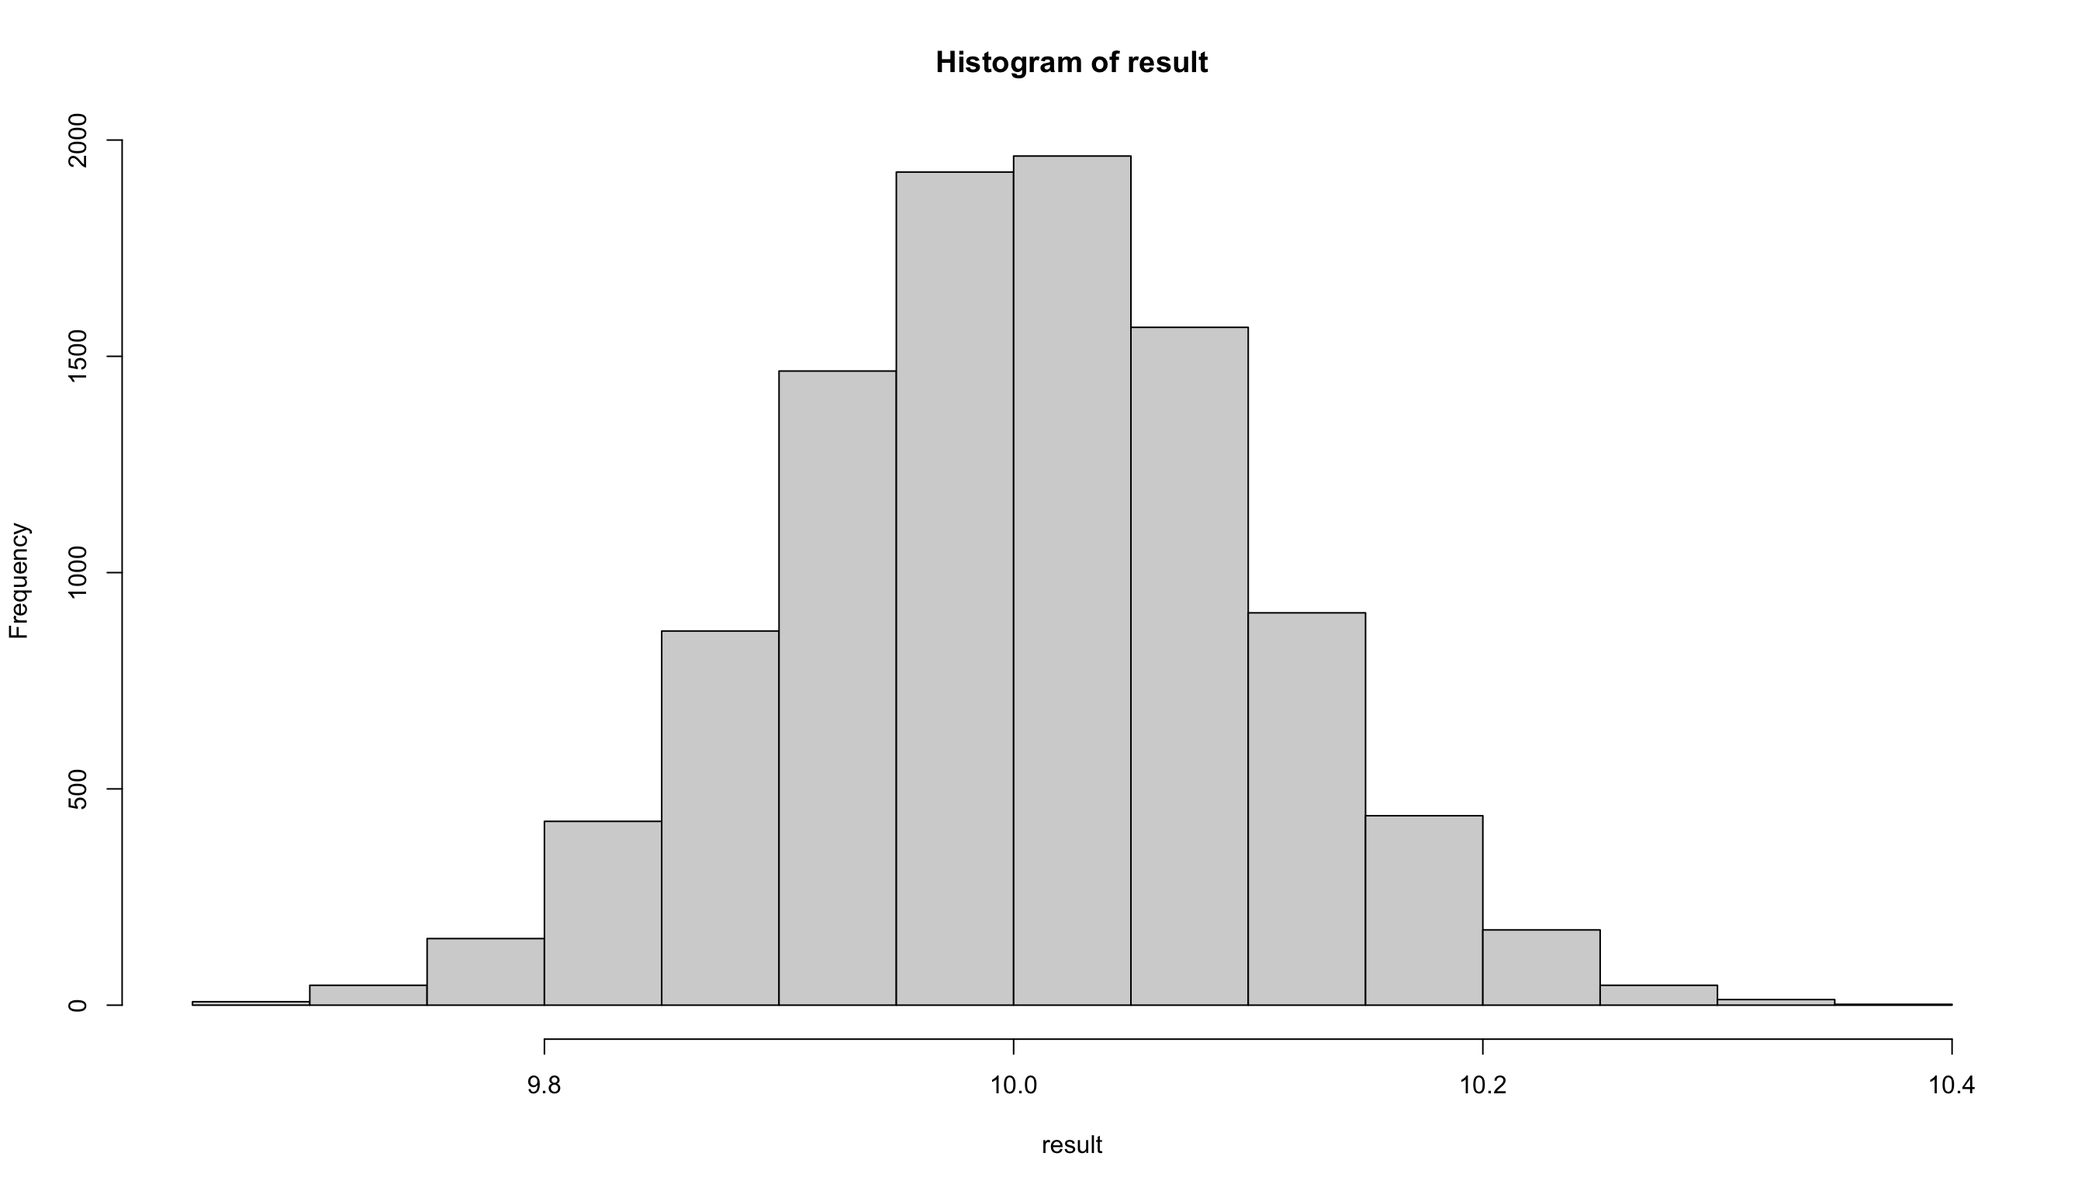
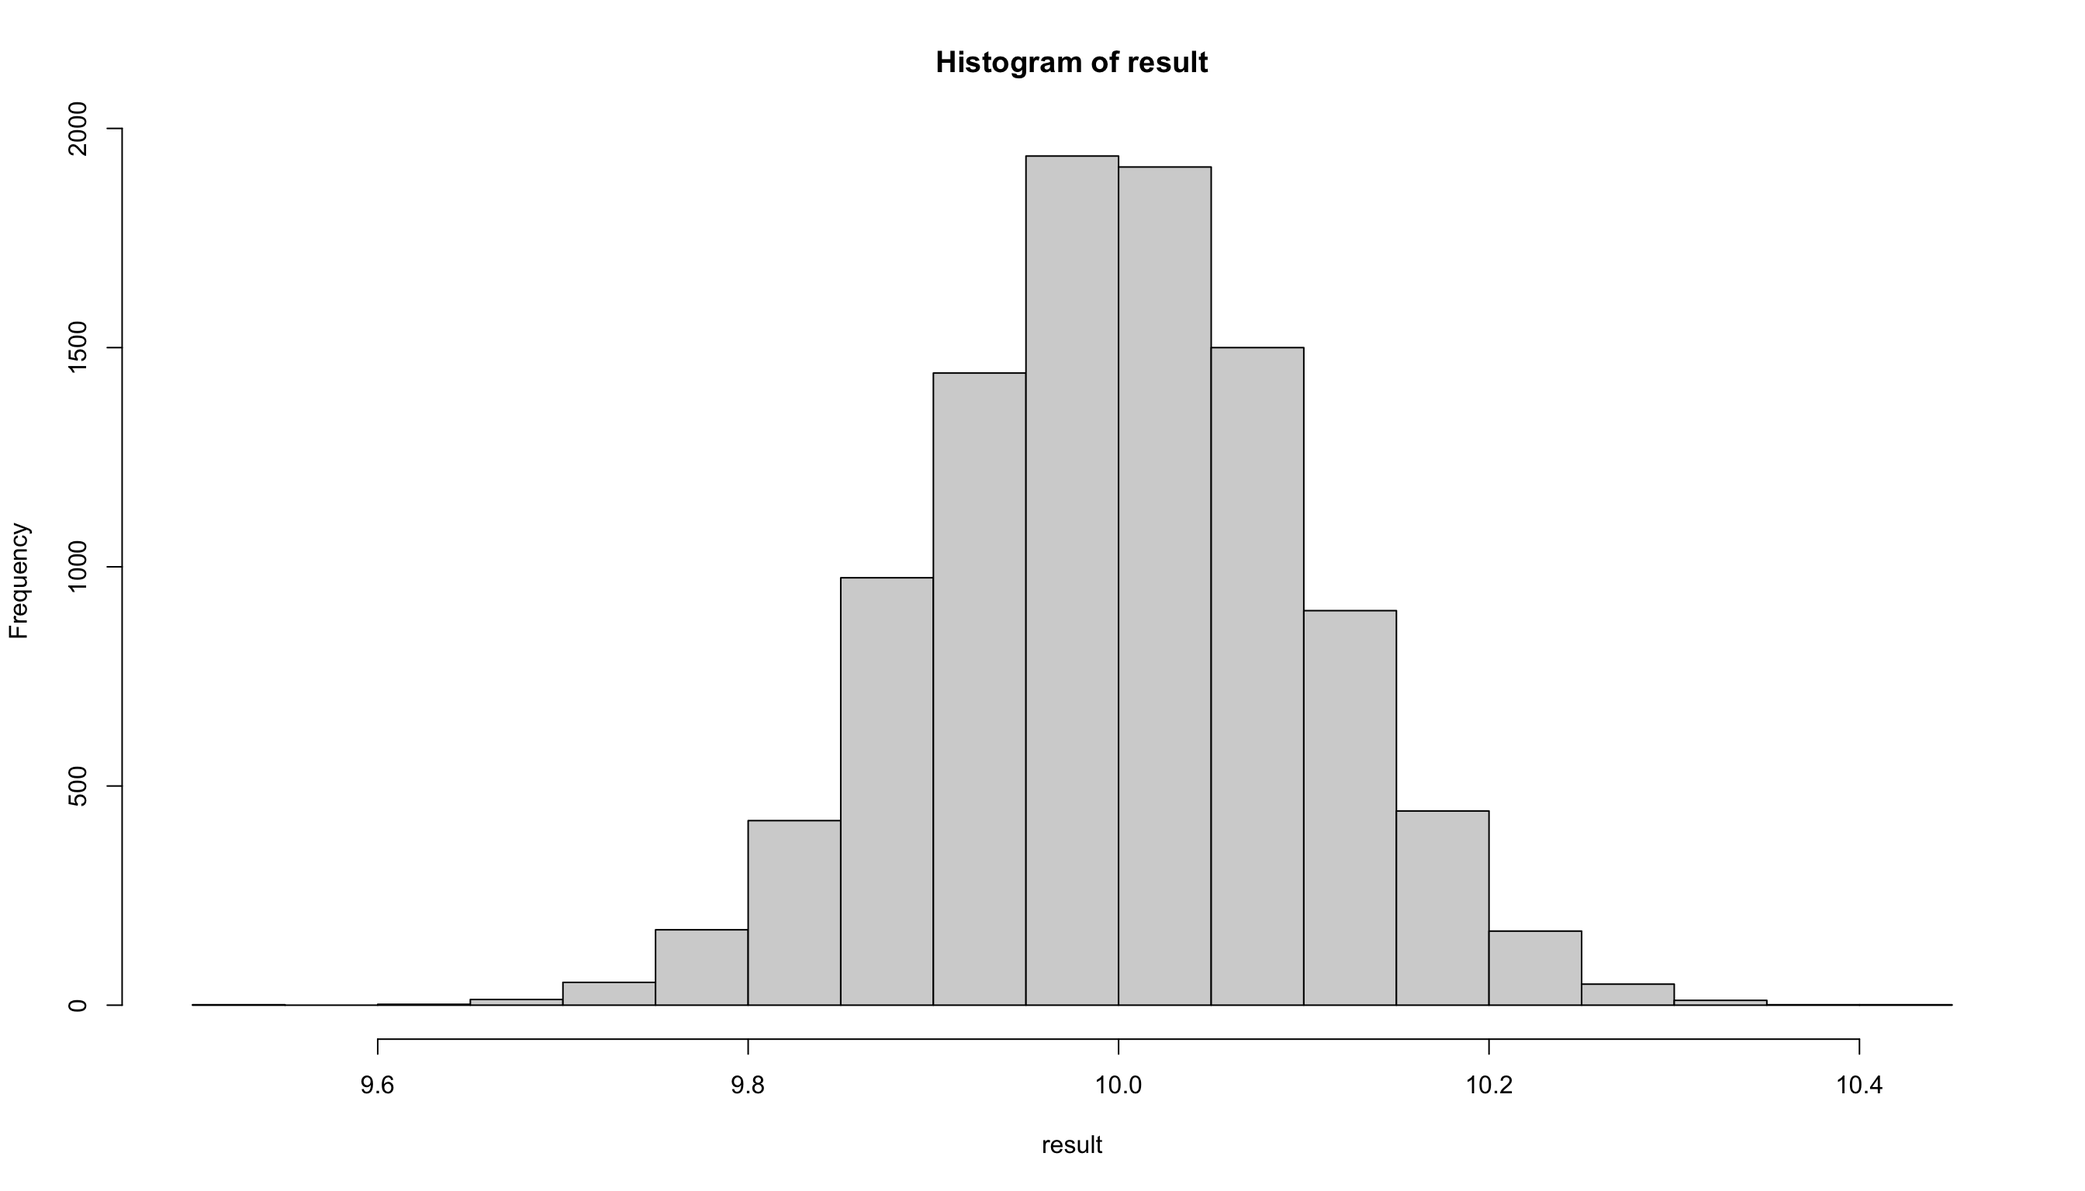
課題の追加

diff --git a/docs/Empoli_Chap07.html b/docs/Empoli_Chap07.html
@@ -2,7 +2,7 @@
 <html xmlns="http://www.w3.org/1999/xhtml" lang="en" xml:lang="en"><head>
 
 <meta charset="utf-8">
-<meta name="generator" content="quarto-1.3.433">
+<meta name="generator" content="quarto-1.3.361">
 
 <meta name="viewport" content="width=device-width, initial-scale=1.0, user-scalable=yes">
 
@@ -360,6 +360,18 @@ pre > code.sourceCode > span > a:first-child::before { text-decoration: underlin
 
 </header>
 
+<p>第6回講義の<strong>到達目標</strong>は、</p>
+<ul>
+<li>母集団と標本の違いを理解する。</li>
+<li>不偏推定量と一致推定量を理解し，説明することができる。</li>
+<li>信頼区間を理解し，説明することが出来る。</li>
+</ul>
+<p>第6回講義の<strong>到達度検証のための課題</strong>は、以下の通りです。</p>
+<ul>
+<li>標本を構築し，記述統計量を計算する。</li>
+<li>シミュレーションを利用して，統計量を作る事が出来る。</li>
+<li>信頼区間を計算することができる</li>
+</ul>
 <div class="callout callout-style-default callout-important callout-titled">
 <div class="callout-header d-flex align-content-center">
 <div class="callout-icon-container">
@@ -439,10 +451,10 @@ pre > code.sourceCode > span > a:first-child::before { text-decoration: underlin
 <span id="cb1-2"><a href="#cb1-2" aria-hidden="true" tabindex="-1"></a>x <span class="ot">&lt;-</span> <span class="fu">rnorm</span>(n, <span class="dv">10</span>, <span class="dv">1</span>) <span class="co"># 標本抽出</span></span>
 <span id="cb1-3"><a href="#cb1-3" aria-hidden="true" tabindex="-1"></a><span class="fu">mean</span>(x) <span class="co"># 標本平均</span></span></code><button title="Copy to Clipboard" class="code-copy-button"><i class="bi"></i></button></pre></div>
 <div class="cell-output cell-output-stdout">
-<pre><code>[1] 10.07883</code></pre>
+<pre><code>[1] 10.00544</code></pre>
 </div>
 </div>
-<p>平均値は10.0788268となり，母平均10とほぼ同じ値になりましたが、ぴったり10ではありませんよね。 この母平均<span class="math inline">10</span>と標本平均10.0788268の差を<strong>誤差</strong>といい、母集団と標本のズレを意味します。</p>
+<p>平均値は10.0054433となり，母平均10とほぼ同じ値になりましたが、ぴったり10ではありませんよね。 この母平均<span class="math inline">10</span>と標本平均10.0054433の差を<strong>誤差</strong>といい、母集団と標本のズレを意味します。</p>
 <p>平均10，標準偏差1の正規分布からランダムに100個のデータを抽出して標本を作り，その平均値を計算する，という試行(trial)を10000回繰り返して，10000個の標本から10000個の標本平均を計算して、標本平均のヒストグラムで表示してみます。</p>
 <div class="cell">
 <div class="sourceCode cell-code" id="cb3"><pre class="sourceCode r code-with-copy"><code class="sourceCode r"><span id="cb3-1"><a href="#cb3-1" aria-hidden="true" tabindex="-1"></a>n <span class="ot">=</span> <span class="dv">100</span> <span class="co"># 標本サイズ</span></span>
@@ -461,7 +473,7 @@ pre > code.sourceCode > span > a:first-child::before { text-decoration: underlin
 <div class="cell">
 <div class="sourceCode cell-code" id="cb4"><pre class="sourceCode r code-with-copy"><code class="sourceCode r"><span id="cb4-1"><a href="#cb4-1" aria-hidden="true" tabindex="-1"></a><span class="fu">mean</span>(result)</span></code><button title="Copy to Clipboard" class="code-copy-button"><i class="bi"></i></button></pre></div>
 <div class="cell-output cell-output-stdout">
-<pre><code>[1] 10.00215</code></pre>
+<pre><code>[1] 9.99946</code></pre>
 </div>
 </div>
 <p>とほぼ10と等しくなります。 このように，標本数を増やしていくと，標本平均の平均値は母平均に近づく，という法則を<strong>大数の法則</strong>(law of large numbers)といいます。 統計学における極めて重要な概念です。</p>
@@ -579,7 +591,7 @@ pre > code.sourceCode > span > a:first-child::before { text-decoration: underlin
 <div class="sourceCode cell-code" id="cb22"><pre class="sourceCode r code-with-copy"><code class="sourceCode r"><span id="cb22-1"><a href="#cb22-1" aria-hidden="true" tabindex="-1"></a>p <span class="ot">&lt;-</span> <span class="fu">ggplot</span>(<span class="at">data =</span> <span class="fu">data.frame</span>(<span class="at">X =</span> <span class="fu">c</span>(<span class="dv">47</span>,<span class="dv">77</span>)))</span>
 <span id="cb22-2"><a href="#cb22-2" aria-hidden="true" tabindex="-1"></a>p <span class="ot">&lt;-</span> p <span class="sc">+</span><span class="fu">aes</span>(<span class="at">x =</span> X)</span>
 <span id="cb22-3"><a href="#cb22-3" aria-hidden="true" tabindex="-1"></a>p <span class="ot">&lt;-</span> p <span class="sc">+</span> <span class="fu">stat_function</span>(</span>
-<span id="cb22-4"><a href="#cb22-4" aria-hidden="true" tabindex="-1"></a>  <span class="at">fun =</span> dnorm, </span>
+<span id="cb22-4"><a href="#cb22-4" aria-hidden="true" tabindex="-1"></a>  <span class="at">fun =</span> dnorm,</span>
 <span id="cb22-5"><a href="#cb22-5" aria-hidden="true" tabindex="-1"></a>  <span class="at">args =</span> <span class="fu">list</span>(<span class="at">mean =</span> <span class="dv">62</span>, <span class="at">sd =</span> <span class="dv">5</span>)</span>
 <span id="cb22-6"><a href="#cb22-6" aria-hidden="true" tabindex="-1"></a>  ) <span class="sc">+</span> mystyle</span>
 <span id="cb22-7"><a href="#cb22-7" aria-hidden="true" tabindex="-1"></a><span class="fu">print</span>(p)</span></code><button title="Copy to Clipboard" class="code-copy-button"><i class="bi"></i></button></pre></div>
@@ -598,16 +610,16 @@ pre > code.sourceCode > span > a:first-child::before { text-decoration: underlin
 <span id="cb23-7"><a href="#cb23-7" aria-hidden="true" tabindex="-1"></a>}</span>
 <span id="cb23-8"><a href="#cb23-8" aria-hidden="true" tabindex="-1"></a><span class="fu">mean</span>(result) <span class="co"># 標本平均の平均</span></span></code><button title="Copy to Clipboard" class="code-copy-button"><i class="bi"></i></button></pre></div>
 <div class="cell-output cell-output-stdout">
-<pre><code>[1] 62.0268</code></pre>
+<pre><code>[1] 61.98745</code></pre>
 </div>
 </div>
-<p>ヒストグラムの中心が母平均の62に近づいていることが分かります。 標本平均の平均は62.0267953となりますが，これは母平均62に近い値になっています。</p>
+<p>ヒストグラムの中心が母平均の62に近づいていることが分かります。 標本平均の平均は61.987446となりますが，これは母平均62に近い値になっています。</p>
 <p>グラフで確認すると，</p>
 <div class="cell">
 <div class="sourceCode cell-code" id="cb25"><pre class="sourceCode r code-with-copy"><code class="sourceCode r"><span id="cb25-1"><a href="#cb25-1" aria-hidden="true" tabindex="-1"></a>result <span class="ot">&lt;-</span> <span class="fu">as.tibble</span>(result)</span>
 <span id="cb25-2"><a href="#cb25-2" aria-hidden="true" tabindex="-1"></a>g <span class="ot">&lt;-</span> <span class="fu">ggplot</span>(result) <span class="sc">+</span> <span class="fu">aes</span>(value) <span class="co"># 軸の設定</span></span>
 <span id="cb25-3"><a href="#cb25-3" aria-hidden="true" tabindex="-1"></a>g <span class="ot">&lt;-</span> g <span class="sc">+</span> <span class="fu">geom_histogram</span>( <span class="co"># ヒストグラム</span></span>
-<span id="cb25-4"><a href="#cb25-4" aria-hidden="true" tabindex="-1"></a>  <span class="fu">aes</span>(<span class="at">y =</span> ..density..), <span class="at">bins =</span> <span class="dv">60</span>, <span class="co"># y軸を密度に  </span></span>
+<span id="cb25-4"><a href="#cb25-4" aria-hidden="true" tabindex="-1"></a>  <span class="fu">aes</span>(<span class="at">y =</span> ..density..), <span class="at">bins =</span> <span class="dv">60</span>, <span class="co"># y軸を密度に</span></span>
 <span id="cb25-5"><a href="#cb25-5" aria-hidden="true" tabindex="-1"></a>  <span class="at">fill =</span> <span class="st">"white"</span>, <span class="at">color =</span> <span class="st">"black"</span>) <span class="co"># ヒストグラムの色</span></span>
 <span id="cb25-6"><a href="#cb25-6" aria-hidden="true" tabindex="-1"></a>g <span class="ot">&lt;-</span> g <span class="sc">+</span> <span class="fu">stat_function</span>(<span class="at">fun=</span>dnorm, <span class="at">args=</span><span class="fu">list</span>(<span class="at">mean =</span> <span class="dv">62</span>, <span class="at">sd =</span> <span class="dv">5</span>))　<span class="co"># 母集団の分布</span></span>
 <span id="cb25-7"><a href="#cb25-7" aria-hidden="true" tabindex="-1"></a>g <span class="ot">&lt;-</span> g <span class="sc">+</span> <span class="fu">geom_vline</span>(<span class="at">xintercept =</span> <span class="dv">62</span>, <span class="at">color =</span> <span class="st">"red"</span>) <span class="co"># 母平均の縦線</span></span>
@@ -789,14 +801,14 @@ t = \frac{\bar x - \mu}{SE}
 <span id="cb32-27"><a href="#cb32-27" aria-hidden="true" tabindex="-1"></a>lowlimit <span class="ot">&lt;-</span> sample_mean <span class="sc">-</span> alpha <span class="sc">*</span> sample_sd<span class="sc">/</span><span class="fu">sqrt</span>(n) <span class="co"># 信頼区間下限</span></span>
 <span id="cb32-28"><a href="#cb32-28" aria-hidden="true" tabindex="-1"></a></span>
 <span id="cb32-29"><a href="#cb32-29" aria-hidden="true" tabindex="-1"></a><span class="co"># 信頼区間の計算結果をデータフレームにまとめる</span></span>
-<span id="cb32-30"><a href="#cb32-30" aria-hidden="true" tabindex="-1"></a>confidence_interval <span class="ot">&lt;-</span> <span class="fu">data.frame</span>( </span>
+<span id="cb32-30"><a href="#cb32-30" aria-hidden="true" tabindex="-1"></a>confidence_interval <span class="ot">&lt;-</span> <span class="fu">data.frame</span>(</span>
 <span id="cb32-31"><a href="#cb32-31" aria-hidden="true" tabindex="-1"></a>  標本平均 <span class="ot">=</span> sample_mean,</span>
 <span id="cb32-32"><a href="#cb32-32" aria-hidden="true" tabindex="-1"></a>  上限 <span class="ot">=</span> uplimit,</span>
 <span id="cb32-33"><a href="#cb32-33" aria-hidden="true" tabindex="-1"></a>  下限 <span class="ot">=</span> lowlimit,</span>
 <span id="cb32-34"><a href="#cb32-34" aria-hidden="true" tabindex="-1"></a>  標本番号 <span class="ot">=</span> <span class="dv">1</span><span class="sc">:</span>trial</span>
 <span id="cb32-35"><a href="#cb32-35" aria-hidden="true" tabindex="-1"></a>)</span>
 <span id="cb32-36"><a href="#cb32-36" aria-hidden="true" tabindex="-1"></a></span>
-<span id="cb32-37"><a href="#cb32-37" aria-hidden="true" tabindex="-1"></a><span class="co"># Plot using ggplot2 </span></span>
+<span id="cb32-37"><a href="#cb32-37" aria-hidden="true" tabindex="-1"></a><span class="co"># Plot using ggplot2</span></span>
 <span id="cb32-38"><a href="#cb32-38" aria-hidden="true" tabindex="-1"></a>g_ci <span class="ot">&lt;-</span> <span class="fu">ggplot</span>(confidence_interval) <span class="sc">+</span></span>
 <span id="cb32-39"><a href="#cb32-39" aria-hidden="true" tabindex="-1"></a>  <span class="fu">aes</span>(<span class="at">x =</span> 標本番号, <span class="at">y =</span> 標本平均)</span>
 <span id="cb32-40"><a href="#cb32-40" aria-hidden="true" tabindex="-1"></a>  <span class="co"># aes(x = reorder(標本番号, 標本平均), y = 標本平均)</span></span>

diff --git a/docs/Empoli_Chap06.html b/docs/Empoli_Chap06.html
@@ -2,7 +2,7 @@
 <html xmlns="http://www.w3.org/1999/xhtml" lang="en" xml:lang="en"><head>
 
 <meta charset="utf-8">
-<meta name="generator" content="quarto-1.3.433">
+<meta name="generator" content="quarto-1.3.361">
 
 <meta name="viewport" content="width=device-width, initial-scale=1.0, user-scalable=yes">
 
@@ -365,36 +365,30 @@ pre > code.sourceCode > span > a:first-child::before { text-decoration: underlin
 
 </header>
 
+<p>第5回講義の<strong>到達目標</strong>は、</p>
+<ul>
+<li>適切なデータの型を選択し，データを読み込むことができる。</li>
+<li>カテゴリー変数を用いて表を作る事が出来る。</li>
+<li><code>dplyr</code>パッケージを駆使して前処理を行い，作図するために必要なデータを作ることができる。</li>
+<li><code>ggplot2</code>パッケージを使って，データの特徴を伝えやすく，シンプルで，美しいグラフを作成することができる。</li>
+</ul>
+<p>第5回講義の<strong>到達度検証のための課題</strong>は、以下の通りです。</p>
+<ul>
+<li>数値，文字列，ファクターを適切に選択したデータを作る。</li>
+<li>カテゴリー変数を用いて，作表する。</li>
+<li><code>group_by()</code>や<code>summarise()</code>を使って，作図するためのデータを準備する。</li>
+<li><code>ggplot()</code>で作図する。</li>
+</ul>
 <p>ここではRの得意とする<strong>データの可視化</strong>(data visualization)について学びます。 いままで利用してきた<code>tidyverse</code>にはグラフ作成のためのパッケージとして<code>ggplot2</code>があります。 本章では，<code>ggplot2</code>の使い方を学習し，読者にもデータの特徴を伝えやすく，シンプルで，美しいグラフの作成を目指します。</p>
 <p>ビッグデータを容易に扱えるようになった昨今において、データの可視化スキルの重要性は高まってきており、以下のような書籍が出版されています。いずれも非常に良い書籍ですので、興味のある方は読んでみてください。</p>
-<div class="quarto-layout-panel">
-<div class="quarto-layout-row quarto-layout-valign-top">
-<div class="quarto-layout-cell" style="flex-basis: 33.3%;justify-content: center;">
-<div class="quarto-figure quarto-figure-center">
-<figure class="figure">
-<p><img src="img/R_Visu_01.jpg" class="img-fluid figure-img"></p>
-<figcaption class="figure-caption">データ分析のためのデータ可視化入門</figcaption>
-</figure>
-</div>
-</div>
-<div class="quarto-layout-cell" style="flex-basis: 33.3%;justify-content: center;">
+<p>:::{layout-ncol = 3} <img src="img/R_Visu_01.jpg" class="img-fluid" alt="データ分析のためのデータ可視化入門"></p>
 <div class="quarto-figure quarto-figure-center">
 <figure class="figure">
 <p><img src="img/R_Visu_02.jpg" class="img-fluid figure-img"></p>
 <figcaption class="figure-caption">Rでできるビジュアル統計学</figcaption>
 </figure>
 </div>
-</div>
-<div class="quarto-layout-cell" style="flex-basis: 33.3%;justify-content: center;">
-<div class="quarto-figure quarto-figure-center">
-<figure class="figure">
-<p><img src="img/R_Visu_03.jpg" class="img-fluid figure-img"></p>
-<figcaption class="figure-caption">Rによるインタラクティブなデータビジュアライゼーション</figcaption>
-</figure>
-</div>
-</div>
-</div>
-</div>
+<p><img src="img/R_Visu_03.jpg" class="img-fluid" alt="Rによるインタラクティブなデータビジュアライゼーション"> :::</p>
 <p>1冊目はアメリカで絶賛された可視化本が翻訳されたものです。ソースコードとともに、データの可視化の基本や実例を学べます。 2冊目は、統計学を可視化という視点で学習する本です。 3冊目は前の2冊とは若干毛色が異なっており、<code>Shiny</code>というPosit社が開発したパッケージを使って、インタラクティブなグラフを作成する方法を学べます。</p>
 <p><code>ggplot2</code>を使うために<code>tidyverse</code>と<code>ggthemes</code>と<code>patchwork</code>を読み込みます。まだインストールできていなければ，始めにインストールしておいてください。</p>
 <div class="cell">
@@ -463,7 +457,7 @@ $ `開発費・試験研究費`           &lt;dbl&gt; 210, 105, 119, 153, 176, 1
 $ 現金及び現金同等物の期末残高   &lt;dbl&gt; NA, 4865, 3729, 4097, 3923, 3359, 2725,…</code></pre>
 </div>
 </div>
-<p>23個の変数があり、データの個数は57,823となっています。 以下ではこのデータを使って、データの可視化を学びます。</p>
+<p><code>23</code>個の変数があり、データの個数は<code>57,823</code>となっています。 以下ではこのデータを使って、データの可視化を学びます。</p>
 </section>
 <section id="基本的な統計量の確認" class="level3" data-number="6.1.2">
 <h3 data-number="6.1.2" class="anchored" data-anchor-id="基本的な統計量の確認"><span class="header-section-number">6.1.2</span> 基本的な統計量の確認</h3>

diff --git a/docs/Empoli_Chap04.html b/docs/Empoli_Chap04.html
@@ -500,7 +500,7 @@ pre > code.sourceCode > span > a:first-child::before { text-decoration: underlin
 </div>
 <section id="githubとの連携" class="level3" data-number="4.4.1">
 <h3 data-number="4.4.1" class="anchored" data-anchor-id="githubとの連携"><span class="header-section-number">4.4.1</span> Githubとの連携</h3>
-<p>GitHubは、Gitというバージョン管理システムを使って、ソースコードのバージョン管理をクラウド上で行うことができる無料サービスです。 使いこなすには、少々勉強が必要ですが、使えれば非常に有用なので、是非やってみてください。 VS CodeはGit/GitHubとの連携も簡単なので、複数人でウェブ開発やプログラミングをする場合には、非常に有益です。</p>
+<p>GitHubは、Gitというバージョン管理システムを使って、ソースコードのバージョン管理をクラウド上で行うことができる無料サービスです。 使いこなすには、少々勉強が必要ですが、使えれば非常に有用なので、是非やってみてください。 Visual Studio CodeはGit/GitHubとの連携も簡単なので、複数人でウェブ開発やプログラミングをする場合には、非常に有益です。</p>
 <p>まずは、GitHubのウェブサイトにアクセスし、アカウントを作成してください。</p>
 <p><a href="https://github.com/">GitHub</a></p>
 <p>そこから先は、書籍やウェブサイトを参考にしてください。 例えばこんな本が便利です。</p>
